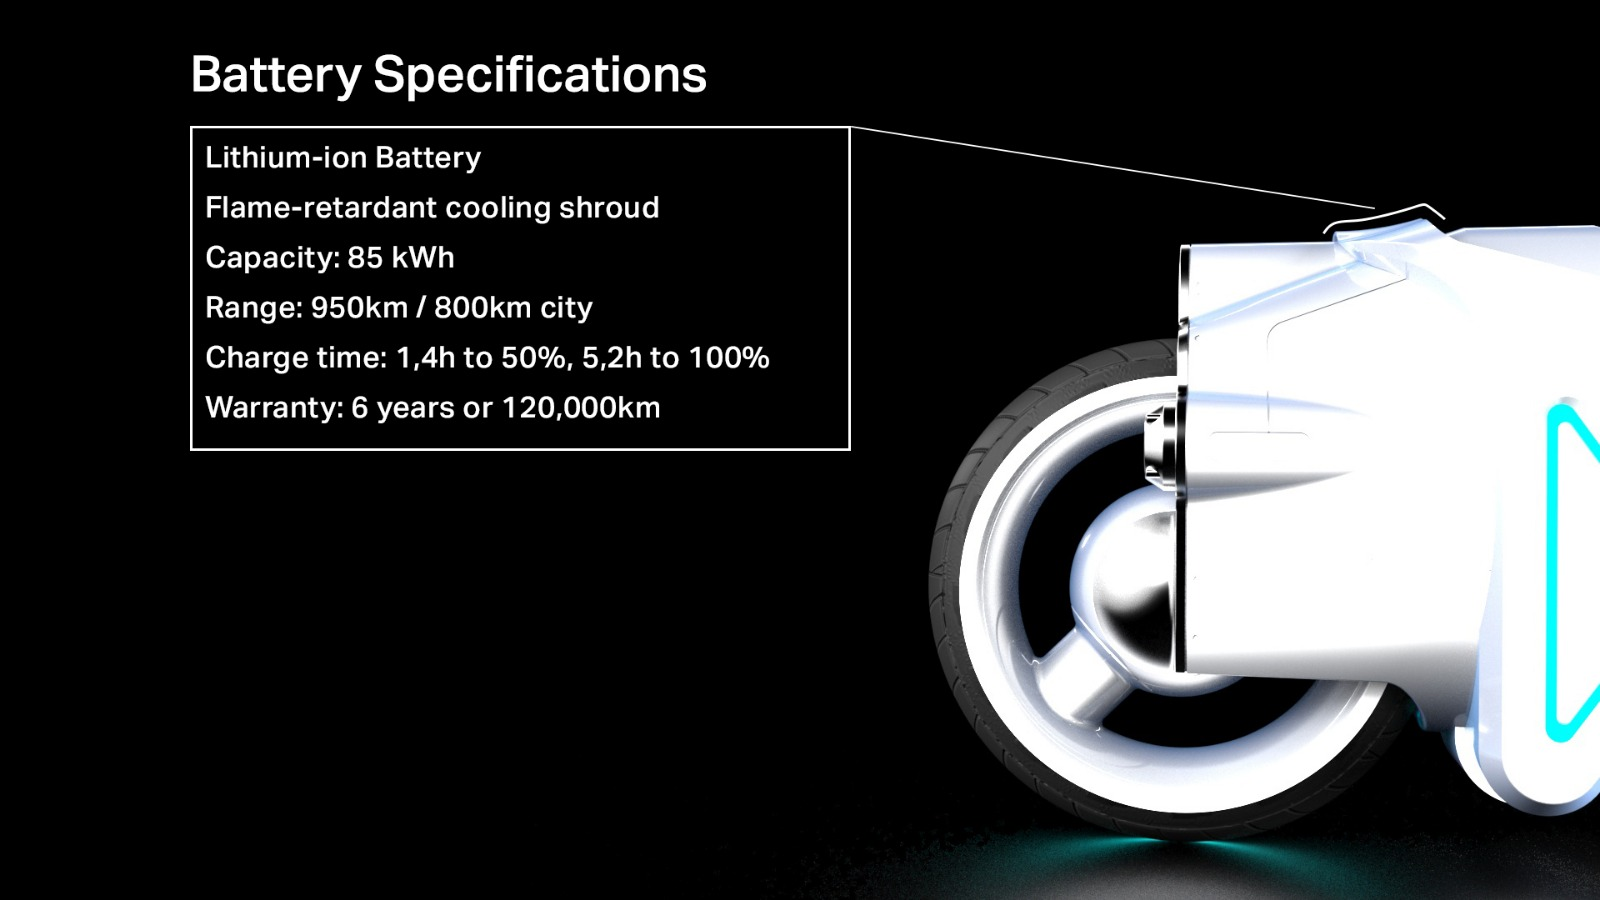
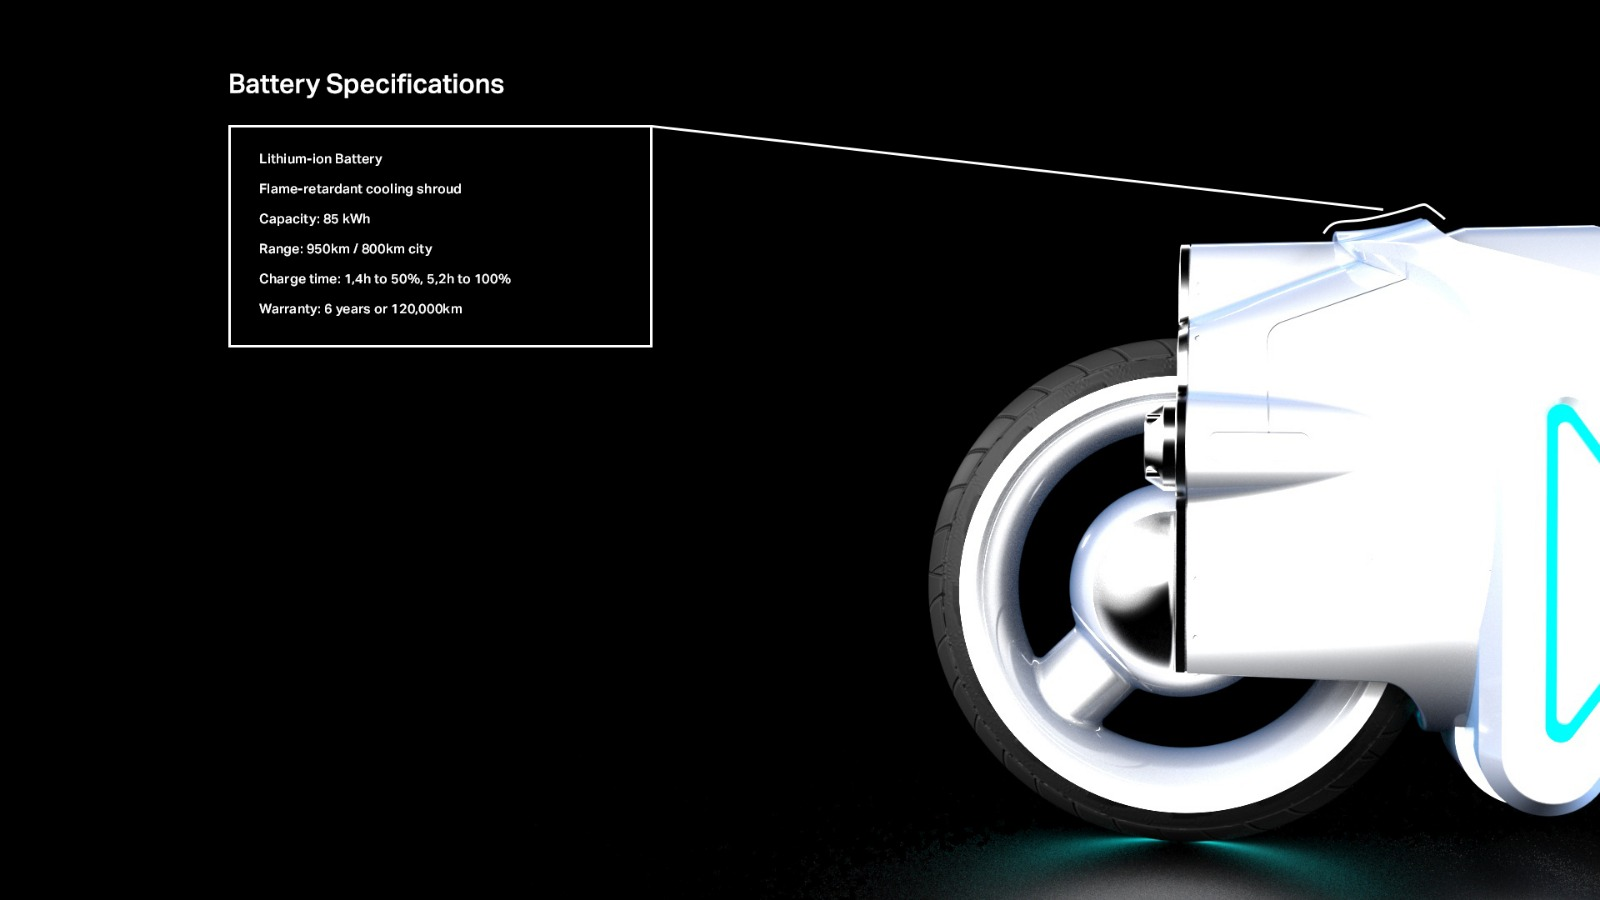
Changed font-size

Changed region(s): [[0.0938, 0.0622, 0.6562, 0.4667], [0.125, 0.4978, 0.5312, 0.5289], [0.6562, 0.1867, 0.8438, 0.2489]]

diff --git a/css/first-page.css b/css/first-page.css
@@ -296,9 +296,9 @@ input[type=checkbox]:checked ~ #overlay-button span:after {
 
     .desktop-nav ul li a {
         color: #FFFFFF;
-        font-weight: 600;
-        font-size: 20px;
-        line-height: 23px;
+        font-weight: 500;
+        font-size: 16px;
+        line-height: 19px;
         letter-spacing: 0.22em;
         text-transform: uppercase;
         text-decoration: none;
@@ -313,12 +313,13 @@ input[type=checkbox]:checked ~ #overlay-button span:after {
     /* The dropdown container */
     .dropdown {
         overflow: hidden;
-        margin-left: 500px;
+        margin-left: 600px;
     }
   
     /* Dropdown button */
     .dropdown .dropbtn {
         font-size: 16px;
+        line-height: 19px;
     }
   
     /* Dropdown content (hidden by default) */
@@ -390,7 +391,7 @@ input[type=checkbox]:checked ~ #overlay-button span:after {
         font-weight: 500;
         font-size: 20px;
         line-height: 30px;
-        letter-spacing: 0.195em;
+        letter-spacing: 0.15em;
     }
     
     /* form on first page */
@@ -407,16 +408,17 @@ input[type=checkbox]:checked ~ #overlay-button span:after {
     
     .email-input {
         /* text in input*/
-        font-size: 17px;
-        line-height: 20px;
+        font-weight: 500;
+        font-size: 16px;
+        line-height: 19px;
     }
     
     .enter-button {
          /* text in button */
-        font-size: 20px;
-        line-height: 30px;
+         font-weight: 500;
+         font-size: 16px;
+         line-height: 19px;
+         text-align: center;
+         vertical-align: middle;
     }
 }    
-
-
-

diff --git a/css/fifth-page.css b/css/fifth-page.css
@@ -66,17 +66,20 @@
     .fifth-page h3 {
         display: block;
         margin-top: 73px;
-        font-weight: 600;
-        font-size: 47px;
-        line-height: 72px;
+        font-weight: 500;
+        font-size: 32px;
+        line-height: 38px;
+        letter-spacing: 0.22em;
         text-align: center;
         letter-spacing: 0.22em;
         color: #FFFFFF;
     }
 
     .fifth-page p {
-        font-size: 20px;
-        line-height: 34px;
+        font-weight: 500;
+        font-size: 16px;
+        line-height: 27px;
+        letter-spacing: 0.25em;
         width: 500px;
     }
 

diff --git a/css/footer.css b/css/footer.css
@@ -33,14 +33,19 @@ footer p {
     }
     
     footer h2 {
-        font-size: 48px;
-        line-height: 82px;
-        margin: 49px 0 24px 0;
+        font-weight: 500;
+        font-size: 32px;
+        line-height: 54px;
+        letter-spacing: 0.25em;
+        margin: 49px 0 16px 0;
     }
     
     footer p {
-        font-size: 24px;
-        line-height: 41px;
-        margin: 24px 0;
+        font-weight: 500;
+        font-size: 16px;
+        line-height: 27px;
+        text-align: center;
+        letter-spacing: 0.25em;
+        margin: 16px 0;
     }
 }

diff --git a/css/fourth-page.css b/css/fourth-page.css
@@ -101,17 +101,17 @@
         flex-direction: row;
         align-items: center;
         left: 33%;
-        margin-top: 790px;
+        margin: 790px auto 0 auto;
         z-index: 1;
     }
     
     .fourth-page h1{
         position: absolute;
-        font-weight: 600;
-        font-size: 48px;
-        line-height: 72px;
-        left: 35%;
-        margin-top: 176px;
+        font-weight: 500;
+        font-size: 32px;
+        line-height: 38px;
+        letter-spacing: 0.22em;
+        margin: 176px auto 0 auto;
     }
     
     .fourth-page p {

diff --git a/css/third-page.css b/css/third-page.css
@@ -37,14 +37,19 @@
     }
     
     .third-page h1 {
-        font-size: 48px;
-        line-height: 56px;
+    font-weight: 500;
+    font-size: 32px;
+    line-height: 38px;
+    letter-spacing: 0.22em;
 
     }
 
     .third-page p {
-        font-size: 20px;
-        line-height: 34px;
+        font-weight: 500;
+        font-size: 16px;
+        line-height: 27px;
+        letter-spacing: 0.25em;
         margin: 0 340px;
+
     }
 }

diff --git a/css/sixth-page.css b/css/sixth-page.css
@@ -42,8 +42,10 @@
     }
 
     .sixth-page h1{
-        font-size: 48px;
-        line-height: 72px;
+        font-weight: 500;
+        font-size: 32px;
+        line-height: 38px;
+        letter-spacing: 0.22em;
         padding-bottom: 50px;
     }
 
